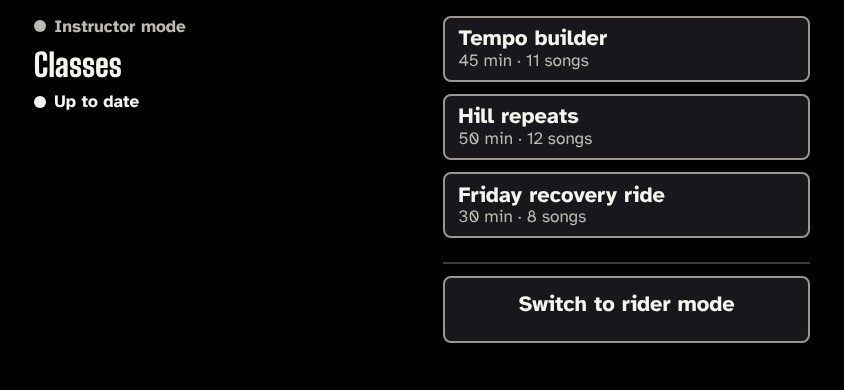
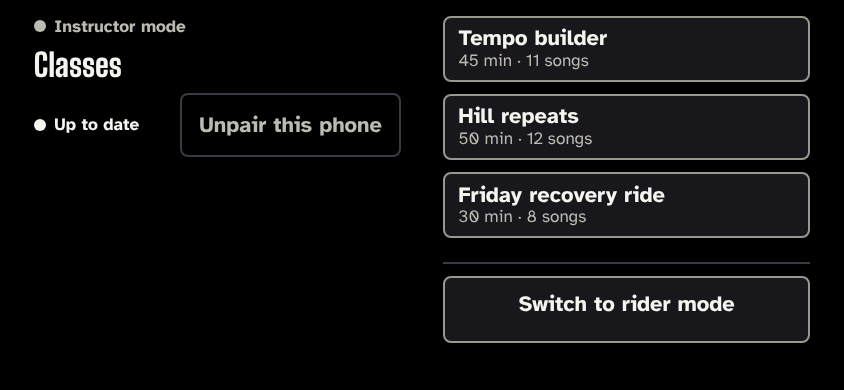
docs(design): spec as built for pairing plates, Pair again and Unpair this phone (#655)
Closes #652

Claude-Session: https://claude.ai/code/session_01LLHBh3xazuKpSV1STS2mcZ

diff --git a/docs/design/mockups/app-pages.js b/docs/design/mockups/app-pages.js
@@ -47,13 +47,25 @@ add('no-lock', 'app-modes.md', 'App: a screen lock is needed', 'State: "Switch t
 
 const CLASSES = [['Tempo builder', '45 min · 11 songs'], ['Hill repeats', '50 min · 12 songs'], ['Friday recovery ride', '30 min · 8 songs']];
 const row = ([t, f]) => `<button class="key row" data-action="open_class"><span class="kl" data-tier="minor" data-lines="2">${A.esc(t)}</span><span class="kh" data-tier="label">${A.esc(f)}</span></button>`;
-add('instructor-start', 'app-modes.md', 'App: instructor mode', 'State: instructor mode after the screen lock, the class list (class-list.md, laid out for the phone) and the mode strip. No strip while a class is open.',
-  page(mode('Instructor mode') + h1('Classes') + `<div class="status">${T('label', 'Up to date', 1, ' class="ok"')}</div>`,
+// "Unpair this phone": an outlined key (64 px high, words at --c-minor) on the status row.
+const unpairKey = '<button class="key quiet" data-action="unpair"><span class="kl" data-tier="minor" data-lines="2">Unpair this phone</span></button>';
+add('instructor-start', 'app-modes.md', 'App: instructor mode', 'State: instructor mode after the screen lock, the class list (class-list.md, laid out for the phone) and the mode strip. "Unpair this phone" is on the status row. No strip while a class is open.',
+  page(mode('Instructor mode') + h1('Classes') + `<div class="status">${T('label', 'Up to date', 1, ' class="ok"')}${unpairKey}</div>`,
     `<div class="rows">${CLASSES.map(row).join('')}</div>` + strip('Switch to rider mode')));
+
+// The pairing ran out (class-list.md "Pairing ran out"): the plate stands in for the status line.
+add('instructor-start-expired', 'app-modes.md', 'App: instructor mode, pairing ran out', 'State: the saved classes stay; the server said the token expired. The plate carries the words and "Pair again"; the status line is hidden. The mock-up shows two classes so that it fits at every size; with three classes at 360x640 the page scrolls (app-modes.md, A8 note).',
+  page(mode('Instructor mode') + h1('Classes') + `<div class="status">${unpairKey}</div>`
+    + plate('The pairing has run out', 'Pair again to get new and changed classes. Saved classes still play.').replace(/<\/div>$/, key('pair_again', 'Pair again') + '</div>'),
+    `<div class="rows">${CLASSES.slice(0, 2).map(row).join('')}</div>` + strip('Switch to rider mode')));
 
 add('to-rider-ask', 'app-modes.md', 'App: switch to rider mode?', 'State: "Switch to rider mode" pressed in instructor mode. Native question; "Stay" has the focus. Back or no answer is "Stay".',
   native(page(mode('Instructor mode') + h1('Switch to rider mode?') + p('The class list closes and the music is no longer followed. Coming back to instructor mode needs your screen lock.'),
     duo(key('stay', 'Stay', { main: true }), key('switch_mode', 'Switch')).replace('class="key main"', 'class="key main focus"'))));
+
+add('unpair-ask', 'app-modes.md', 'App: unpair this phone?', 'State: "Unpair this phone" pressed in instructor mode. Native question; "Stay" has the focus. Back or leaving the app is "Stay". "Unpair" removes the saved classes and goes to the switching screen, then rider mode.',
+  native(page(mode('Instructor mode') + h1('Unpair this phone?') + p('The classes saved on this phone are removed and instructor mode closes. Teaching from it again needs a new pairing.'),
+    duo(key('stay', 'Stay', { main: true }), key('unpair', 'Unpair')).replace('class="key main"', 'class="key main focus"'))));
 
 add('switching', 'app-modes.md', 'App: switching to rider mode', 'State: "Switch" pressed. Native screen while the follower stops, the connections close and the web view reloads fresh (ADR 0011 section 1). Under a second.',
   native(page(mode('Rider mode') + h1('Switching to rider mode') + work('Closing instructor mode'), '')));

diff --git a/docs/design/mockups/app-instructor-start.html b/docs/design/mockups/app-instructor-start.html
@@ -10,7 +10,7 @@
 <link rel="stylesheet" href="app.css">
 </head>
 <body class="app">
-<!-- State: instructor mode after the screen lock, the class list (class-list.md, laid out for the phone) and the mode strip. No strip while a class is open.  Spec: docs/design/app-modes.md. Generated by app-pages.js: edit that, not this file. -->
-<main class="page"><div class="lead"><p class="mode"><span data-tier="label" data-lines="1">Instructor mode</span></p><h1><span data-tier="value" data-lines="2">Classes</span></h1><div class="status"><span data-tier="label" data-lines="1" class="ok">Up to date</span></div></div><div class="act"><div class="rows"><button class="key row" data-action="open_class"><span class="kl" data-tier="minor" data-lines="2">Tempo builder</span><span class="kh" data-tier="label">45 min · 11 songs</span></button><button class="key row" data-action="open_class"><span class="kl" data-tier="minor" data-lines="2">Hill repeats</span><span class="kh" data-tier="label">50 min · 12 songs</span></button><button class="key row" data-action="open_class"><span class="kl" data-tier="minor" data-lines="2">Friday recovery ride</span><span class="kh" data-tier="label">30 min · 8 songs</span></button></div><nav class="strip" aria-label="Mode"><button class="key full" data-action="switch_mode"><span class="kl" data-tier="minor" data-lines="2">Switch to rider mode</span></button></nav></div></main>
+<!-- State: instructor mode after the screen lock, the class list (class-list.md, laid out for the phone) and the mode strip. "Unpair this phone" is on the status row. No strip while a class is open.  Spec: docs/design/app-modes.md. Generated by app-pages.js: edit that, not this file. -->
+<main class="page"><div class="lead"><p class="mode"><span data-tier="label" data-lines="1">Instructor mode</span></p><h1><span data-tier="value" data-lines="2">Classes</span></h1><div class="status"><span data-tier="label" data-lines="1" class="ok">Up to date</span><button class="key quiet" data-action="unpair"><span class="kl" data-tier="minor" data-lines="2">Unpair this phone</span></button></div></div><div class="act"><div class="rows"><button class="key row" data-action="open_class"><span class="kl" data-tier="minor" data-lines="2">Tempo builder</span><span class="kh" data-tier="label">45 min · 11 songs</span></button><button class="key row" data-action="open_class"><span class="kl" data-tier="minor" data-lines="2">Hill repeats</span><span class="kh" data-tier="label">50 min · 12 songs</span></button><button class="key row" data-action="open_class"><span class="kl" data-tier="minor" data-lines="2">Friday recovery ride</span><span class="kh" data-tier="label">30 min · 8 songs</span></button></div><nav class="strip" aria-label="Mode"><button class="key full" data-action="switch_mode"><span class="kl" data-tier="minor" data-lines="2">Switch to rider mode</span></button></nav></div></main>
 </body>
 </html>

diff --git a/docs/design/mockups/app-instructor-start-expired.html b/docs/design/mockups/app-instructor-start-expired.html
@@ -1,0 +1,16 @@
+<!doctype html>
+<html lang="en">
+<head>
+<meta charset="utf-8">
+<meta name="viewport" content="width=device-width, initial-scale=1, viewport-fit=cover">
+<title>App: instructor mode, pairing ran out</title>
+<link rel="stylesheet" href="tokens.css">
+<link rel="stylesheet" href="companion.css">
+<link rel="stylesheet" href="rider.css">
+<link rel="stylesheet" href="app.css">
+</head>
+<body class="app">
+<!-- State: the saved classes stay; the server said the token expired. The plate carries the words and "Pair again"; the status line is hidden. The mock-up shows two classes so that it fits at every size; with three classes at 360x640 the page scrolls (app-modes.md, A8 note).  Spec: docs/design/app-modes.md. Generated by app-pages.js: edit that, not this file. -->
+<main class="page"><div class="lead"><p class="mode"><span data-tier="label" data-lines="1">Instructor mode</span></p><h1><span data-tier="value" data-lines="2">Classes</span></h1><div class="status"><button class="key quiet" data-action="unpair"><span class="kl" data-tier="minor" data-lines="2">Unpair this phone</span></button></div><div class="plate" role="alert"><span data-tier="minor" data-lines="2" class="h">The pairing has run out</span><span data-tier="label" data-lines="4" class="dt">Pair again to get new and changed classes. Saved classes still play.</span><button class="key" data-action="pair_again"><span class="kl" data-tier="minor" data-lines="2">Pair again</span></button></div></div><div class="act"><div class="rows"><button class="key row" data-action="open_class"><span class="kl" data-tier="minor" data-lines="2">Tempo builder</span><span class="kh" data-tier="label">45 min · 11 songs</span></button><button class="key row" data-action="open_class"><span class="kl" data-tier="minor" data-lines="2">Hill repeats</span><span class="kh" data-tier="label">50 min · 12 songs</span></button></div><nav class="strip" aria-label="Mode"><button class="key full" data-action="switch_mode"><span class="kl" data-tier="minor" data-lines="2">Switch to rider mode</span></button></nav></div></main>
+</body>
+</html>

diff --git a/docs/design/mockups/app-unpair-ask.html b/docs/design/mockups/app-unpair-ask.html
@@ -1,0 +1,16 @@
+<!doctype html>
+<html lang="en">
+<head>
+<meta charset="utf-8">
+<meta name="viewport" content="width=device-width, initial-scale=1, viewport-fit=cover">
+<title>App: unpair this phone?</title>
+<link rel="stylesheet" href="tokens.css">
+<link rel="stylesheet" href="companion.css">
+<link rel="stylesheet" href="rider.css">
+<link rel="stylesheet" href="app.css">
+</head>
+<body class="app">
+<!-- State: "Unpair this phone" pressed in instructor mode. Native question; "Stay" has the focus. Back or leaving the app is "Stay". "Unpair" removes the saved classes and goes to the switching screen, then rider mode.  Spec: docs/design/app-modes.md. Generated by app-pages.js: edit that, not this file. -->
+<main data-layer="native" class="page"><div class="lead"><p class="mode"><span data-tier="label" data-lines="1">Instructor mode</span></p><h1><span data-tier="value" data-lines="2">Unpair this phone?</span></h1><p><span data-tier="minor" data-lines="6">The classes saved on this phone are removed and instructor mode closes. Teaching from it again needs a new pairing.</span></p></div><div class="act"><div class="duo"><button class="key main focus" data-action="stay"><span class="kl" data-tier="minor" data-lines="2">Stay</span></button><button class="key" data-action="unpair"><span class="kl" data-tier="minor" data-lines="2">Unpair</span></button></div></div></main>
+</body>
+</html>

diff --git a/docs/design/mockups/app.css b/docs/design/mockups/app.css
@@ -42,6 +42,14 @@
 .status { display: flex; align-items: center; gap: 0.6em; font-size: var(--c-label); }
 .status .ok { color: var(--light-1); font-weight: 700; display: inline-flex; align-items: center; gap: 0.5em; }
 .status .ok::before { content: ""; width: 0.7em; height: 0.7em; border-radius: 50%; background: var(--light-1); flex: none; }
+/* "Unpair this phone": an outlined key, at least 64 px high, words at --c-minor. Upright it has its
+   own full-width line; sideways it sits at the end of the status row. */
+.status .key.quiet { margin-left: auto; flex: none; width: auto; white-space: nowrap; min-height: 64px; padding: 0 1em; background: transparent; border-color: var(--stage-line); }
+/* The row wraps in both orientations, so the status words never share a line with a key too wide for them. */
+.status { flex-wrap: wrap; }
+.status .ok { white-space: nowrap; }
+@media (orientation: portrait) { .status .key.quiet { flex: 1 0 100%; margin-left: 0; } }
+.status .key.quiet .kl { font-size: var(--c-minor); font-weight: 700; color: var(--light-2); }
 /* A status line in the minor tier (pair-done). */
 .status.m { font-size: var(--c-minor); }
 

diff --git a/docs/design/mockups/app-checks.js b/docs/design/mockups/app-checks.js
@@ -25,7 +25,7 @@ function pageChecks(arg) {
   const KEY_MIN = 64, KEY_GAP = 12;
   // Every action the app's screens have. None sends an equipment command (rule 2); the rider's
   // send nothing but the join (ADR 0007 section 1). Nothing scans or opens the camera (rule 12).
-  const ACTIONS = ['switch_mode', 'stay', 'set_lock', 'stay_rider', 'open_class', 'cancel', 'open_site', 'continue', 'pair_again',
+  const ACTIONS = ['switch_mode', 'stay', 'set_lock', 'stay_rider', 'open_class', 'cancel', 'open_site', 'continue', 'pair_again', 'unpair',
     'open_setting', 'not_now', 'follow', 'join', 'remember', 'leave', 'keep_riding', 'start', 'pause', 'resume', 'previous', 'next', 'end'];
   const BANNED = /scan|camera|qr/i;
   const rows = [];

diff --git a/docs/design/app-modes.md b/docs/design/app-modes.md
@@ -3,7 +3,7 @@
 Status: proposed in the pull request for issue #628, for [ADR 0011](../adr/0011-the-phone-app-is-built-with-capacitor.md)
 section 1 (one app, two modes). Overview, sizes and checks: [app.md](app.md). Mock-ups:
 `mockups/app-rider-start*.html`, `app-lock-cancelled.html`, `app-no-lock.html`, `app-instructor-start.html`,
-`app-to-rider-ask.html`, `app-switching.html`, `app-switching-instructor.html`, and their `-390x844.png` and `-844x390.png` shots.
+`app-instructor-start-expired.html`, `app-to-rider-ask.html`, `app-unpair-ask.html`, `app-switching.html`, `app-switching-instructor.html`, and their `-390x844.png` and `-844x390.png` shots.
 
 ## Purpose
 
@@ -50,8 +50,22 @@ are long are stacked, the main one first.
 | Screen lock cancelled, failed or locked out | `app-lock-cancelled` | Back on the rider start page, a white plate "Still in rider mode / Instructor mode opens only after your screen lock." Nothing changed. Android's own prompt already says when the screen lock is locked for now, and returns the same answer as a cancel, so a lockout shows this plate too (there is no separate "Too many tries" plate). The plate goes when the user types or presses anything |
 | No screen lock on a paired phone | `app-no-lock` | Native screen. Title "A screen lock is needed", why, and a note that the classes and the pairing stay locked away on the phone. Keys "Set a screen lock" (opens Android's security settings) and "Stay in rider mode". Coming back with a lock set opens the screen-lock prompt; coming back without one shows this screen again |
 | Instructor mode | `app-instructor-start` | Mode tag, "Classes", the status line ("Up to date", or class-list.md's other sync states), one key per class (title, then length and song count), the strip "Switch to rider mode" |
+| Pairing ran out | `app-instructor-start-expired` | The list as above, with a white plate in place of the status line: "The pairing has run out / Pair again to get new and changed classes. Saved classes still play." and its key "Pair again" (main wording of class-list.md, no e-mail on the phone). The status line is **hidden while a plate shows**. "Pair again" opens the native pairing screens (app-pairing.md); on success the list is read anew. Saved classes still open |
+| Unpair this phone? | `app-unpair-ask` | Native question, title "Unpair this phone?", text "The classes saved on this phone are removed and instructor mode closes. Teaching from it again needs a new pairing." Keys "Stay" (main, has the focus) and "Unpair". Back, or leaving the app, is "Stay" and changes nothing. "Unpair": the token and saved classes are deleted here first, then the server is asked to drop the record; the result is the switching screen to rider mode (`app-switching`). "Stay": back on the class list as it was |
 | Switch to rider mode? | `app-to-rider-ask` | Native question. "The class list closes and the music is no longer followed. Coming back to instructor mode needs your screen lock." Keys "Stay" (main, has the focus) and "Switch". Back, or leaving the app, is "Stay" |
 | Switching | `app-switching`, `app-switching-instructor` | Native, under a second: mode tag "Rider mode", "Switching to rider mode", the working marker with "Closing instructor mode". Native code stops the follower, closes every connection, drops the instructor state and reloads the page fresh; only then the rider start page shows (ADR 0011 section 1). To instructor mode, after the screen lock passed: mode tag "Instructor mode", "Switching to instructor mode", the working marker with "Closing rider mode"; native code drops the rider's numbers and the web view's storage, then loads the class list fresh. The same layout, rules and timing |
+
+**"Unpair this phone".** On the instructor start page, always present while the page shows: an
+outlined key (transparent, a `--stage-line` border) at least 64 px high (A6), its words at
+`--c-minor` in `--light-2` on the stage, about 11 : 1 (A1, A4). Upright, it has its own full-width
+line under the status line; sideways, it sits at the end of the status row. It is a key of the page, not a
+class row and not the strip, and it only asks: the native question above decides. Measured at
+466c2ba (the "Pair again" and "Unpair this phone" pull request, #651): with up to date and three classes, every strip key fits inside the
+window with no scroll at 390x844, 844x390, 360x780, 360x640 and 640x360.
+
+**A8 note.** The instructor start page may scroll once the list outgrows the window. Up to date
+with three classes must fit at all six sizes. With the "Pair again" plate and three classes at
+360x640 the page runs 25 px over (strip key bottom 665, window 640) and scrolls; that is allowed. The mock-up `app-instructor-start-expired` shows two classes so that it fits at all six sizes.
 
 Where the app starts: in the last mode used; on a first launch, in rider mode. A restart in rider
 mode never skips the screen lock. Instructor mode with a class open stays on the class; Back on the
@@ -70,7 +84,7 @@ animate; it is replaced as soon as the rider page has loaded.
   sentence.
 - The screen lock is "your screen lock" (Android's own term), never "PIN" alone or "password".
 - Keys say what happens: "Switch to instructor mode", "Switch", "Stay", "Set a screen lock",
-  "Stay in rider mode".
+  "Stay in rider mode", "Pair again", "Unpair this phone", "Unpair".
 
 ## Rules (plan section 3)
 

diff --git a/docs/design/app-pairing.md b/docs/design/app-pairing.md
@@ -45,7 +45,7 @@ The code never wraps and never shrinks below the value floor; at 360 px wide it 
 | The code | `app-pair-code` | As above, 9:41 left |
 | The code, no screen lock | `app-pair-code-no-lock` | The same with a grey note: "This phone has no screen lock. Instructor mode will need one: set it before or after pairing." Pairing goes on |
 | Back from the browser, not yet confirmed | `app-pair-waiting` | The working line "Not yet confirmed on the website" above the code; the main key becomes "Open the page again" |
-| Paired | `app-pair-done` | "This phone is paired", the status line "Paired as <account e-mail>", "Confirm your screen lock to open instructor mode.", and "Continue", which opens the screen-lock prompt (or app-modes.md's no-lock screen) |
+| Paired | `app-pair-done` | "This phone is paired", the status line "Paired as <account e-mail>", "Confirm your screen lock to open instructor mode.", and "Continue", which opens the screen-lock prompt (or app-modes.md's no-lock screen). Reached from "Pair again" in instructor mode, the screen has **no screen-lock line**: the phone is already in instructor mode, so "Continue" returns to the class list |
 | Refused | `app-pair-denied` | A white plate "Refused on the website. / Nothing was kept on this phone." Keys "Rider mode" and "Start again" (main) |
 | Code ran out | `app-pair-code-expired` | Plate "The code ran out. / It was not confirmed in time. Start again for a new code." Same keys |
 | Server unreachable | `app-pair-unreachable` | Plate "The server could not be reached. / Check the connection, then start again." Same keys |
@@ -53,7 +53,8 @@ The code never wraps and never shrinks below the value floor; at 360 px wide it 
 | Too many pairings | `app-pair-too-many` | Plate "Too many pairings were started. / Try again in an hour." (the desktop's `too_many`, from this network). Same keys as Refused; "Start again" asks again, and the server may still refuse until the hour has passed |
 | Answer not understood | `app-pair-unexpected` | Plate "The answer was not understood. / The app could not read the server's answer. Try again later." (the desktop's `unexpected`). Same keys as Refused. Nothing was kept |
 | Pairing could not be kept | `app-pair-save-failed` | Plate "The pairing could not be kept. / The Android Keystore did not keep it, so the pairing was undone. Start again." (the desktop's `save_failed`; the app asks the server to drop the record it made). Same keys as Refused |
-| Unpaired on the website | `app-pair-revoked` | Shown at the next start in instructor mode, or at once if the app is open, after a 401 that means the device was removed: plate "Unpaired on the website. / The classes saved on this phone were removed." Same keys as Refused |
+| Unpaired on the website | `app-pair-revoked` | Plate "Unpaired on the website. / The classes saved on this phone were removed." Same keys as Refused. Instructor mode closes to rider mode **at once, with no plate**. The plate shows when pairing next opens **in the same run**, and only "Start again" begins then. A plate that was shown is cleared and is not shown again. It is not kept across a restart (the next pairing opens on "Asking for a code") |
+| Server unreachable, no server address | `app-pair-unreachable` | A release built with no server address (the build's `NO_SERVER`) shows the same plate as Server unreachable. "Start again" cannot succeed there: it shows the plate again until a build with an address is installed |
 
 The desktop's `no_server` ("no server address is set") and `unpaired` ("no longer paired")
 notices have no phone state, on purpose. The app's server address is fixed in the native build (ADR 0011 section 3), so there

diff --git a/docs/design/app.md b/docs/design/app.md
@@ -12,7 +12,7 @@ system: [system.md](system.md). This file is the overview; each screen group has
 | [app-rider-join.md](app-rider-join.md) | The rider's join in the app: the class code, the nickname, errors and leaving |
 | [app-room-display.md](app-room-display.md) | The room view on an external display |
 
-Reference mock-ups and screenshots: [mockups/](mockups/), files `app-*.html` (30 mock-ups,
+Reference mock-ups and screenshots: [mockups/](mockups/), files `app-*.html` (35 mock-ups,
 generated by [app-pages.js](mockups/app-pages.js) from [app-kit.js](mockups/app-kit.js), styled by
 [app.css](mockups/app.css) and [app-room.css](mockups/app-room.css) on top of the rider page's and
 `/play`'s styles) and `app-*-<w>x<h>.png`. **Where a mock-up and the text differ, the text wins.**
@@ -106,7 +106,7 @@ its floor there.
 
 ## Mock-ups
 
-`node docs/design/mockups/app-pages.js` writes the 30 `app-*.html` files; `ONLY='^app-' node
+`node docs/design/mockups/app-pages.js` writes the 35 `app-*.html` files; `ONLY='^app-' node
 docs/design/mockups/shoot.js` shoots and checks them. Each spec lists its own.
 
 ## What the app never shows or does (plan section 3)
